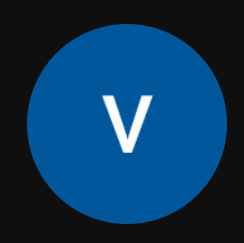
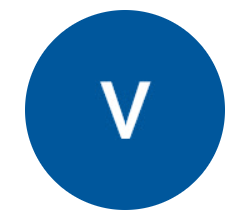
12-07-2026 commit

diff --git a/html_intro/position.html b/html_intro/position.html
@@ -1,0 +1,39 @@
+<!DOCTYPE html>
+<html>
+    <head>
+        <title>Position practice</title>
+    </head>
+    <body style="
+    height: 3000px;
+    padding-top: 60px;
+    padding-left: 80px;">
+        <div style="
+        background-color: black;
+        color: white;
+        position:fixed;
+        top: 0px;
+        left: 0px;
+        right: 0px;
+        height: 50px;">Header</div>
+
+        <div style="
+        background-color:blue;
+        color: white;
+        position: fixed;
+        left: 0;
+        top: 50px;
+        left: 0;
+        bottom: 0;
+        width: 72px;">Sidebar</div>
+
+        <div style="
+        background-color: lightblue;
+        height: 200px;
+        width: 200px;">Div 1</div>
+
+        <div style="
+        background-color: lightpink;
+        height: 200px;
+        width: 200px;">Div 2</div>
+    </body>
+</html>

diff --git a/styles/header.css b/styles/header.css
@@ -3,6 +3,14 @@
     display: flex;
     flex-direction: row;
     justify-content: space-between;
+    position: fixed;
+    top: 0;
+    left: 0;
+    right: 0;
+    background-color: white;
+    border-bottom-width: 1px;
+    border-bottom-style: solid;
+    border-bottom-color: rgb(228, 228, 228);
 }
 
 .left-section{
@@ -40,6 +48,7 @@
     border-color: rgb(192, 192, 192);
     border-radius: 2px;
     box-shadow: inset 1px 2px 3px rgba(0, 0, 0, 0.05);
+    width: 0;
 }
 
 .search-bar::placeholder{
@@ -48,7 +57,7 @@
 }
 
 .search-button{
-    height: 40px;
+    height: 39px;
     width: 66px;
     background-color: rgb(240, 240,240);
     border-width: 1px;
@@ -77,7 +86,27 @@
 }
 
 .right-section{
-    background-color: lightblue;
-    width: 200px;
+    width: 180px;
+    margin-right: 20px;
+    display: flex;
+    align-items: center;
+    justify-content: space-between;
+    flex-shrink: 0;
+}
 
+.upload-icon{
+    height: 24px;
+}
+
+.youtube-apps-icon{
+    height: 24px;
+}
+
+.notifications-icon{
+    height: 24px;
+}
+
+.current-user-picture{
+    height: 32px;
+    border-radius: 16px;
 }

diff --git a/youtube.html b/youtube.html
@@ -6,6 +6,7 @@
     <link rel="stylesheet" href="styles/video.css" />
     <link rel="stylesheet" href="styles/general.css" />
     <link rel="stylesheet" href="styles/header.css" />
+    <link rel="stylesheet" href="styles/sidebar.css" />
   </head>
 
   <body>
@@ -16,16 +17,21 @@
       </div>
       <div class="middle-section"><input class="search-bar" type="text" placeholder="Search" />
         <button class="search-button">
-          <img class="search-icon" src="icons/search-icon.svg" />
+          <img class="search-icon" src="icons/search.svg" />
         </button>
         <button class="voice-search-button">
           <img class="voice-search-icon" src="icons/voice-search-icon.svg" />
         </button>
       </div>
       <div class="right-section">
-        Right section
+        <img class="upload-icon" src="icons/upload.svg">
+        <img class="youtube-apps-icon" src="icons/youtube-apps.svg">
+        <img class="notifications-icon" src="icons/notifications.svg">
+        <img class="current-user-picture" src="channel-pictures/Capture.PNG">
       </div>
     </div>
+
+    <div class="sidebar">sidebar</div>
 
     <div class="video-grid">
       <div class="video-preview">

diff --git a/styles/sidebar.css b/styles/sidebar.css
@@ -1,0 +1,8 @@
+.sidebar{
+    position: fixed;
+    top: 55px;
+    left: 0;
+    bottom: 0;
+    width: 72px;
+    background-color: white;
+}

diff --git a/styles/general.css b/styles/general.css
@@ -6,5 +6,6 @@ p {
 
 body{
     margin: 0;
-    
+    padding-top: 70px;
+    padding-left: 80px;
 }